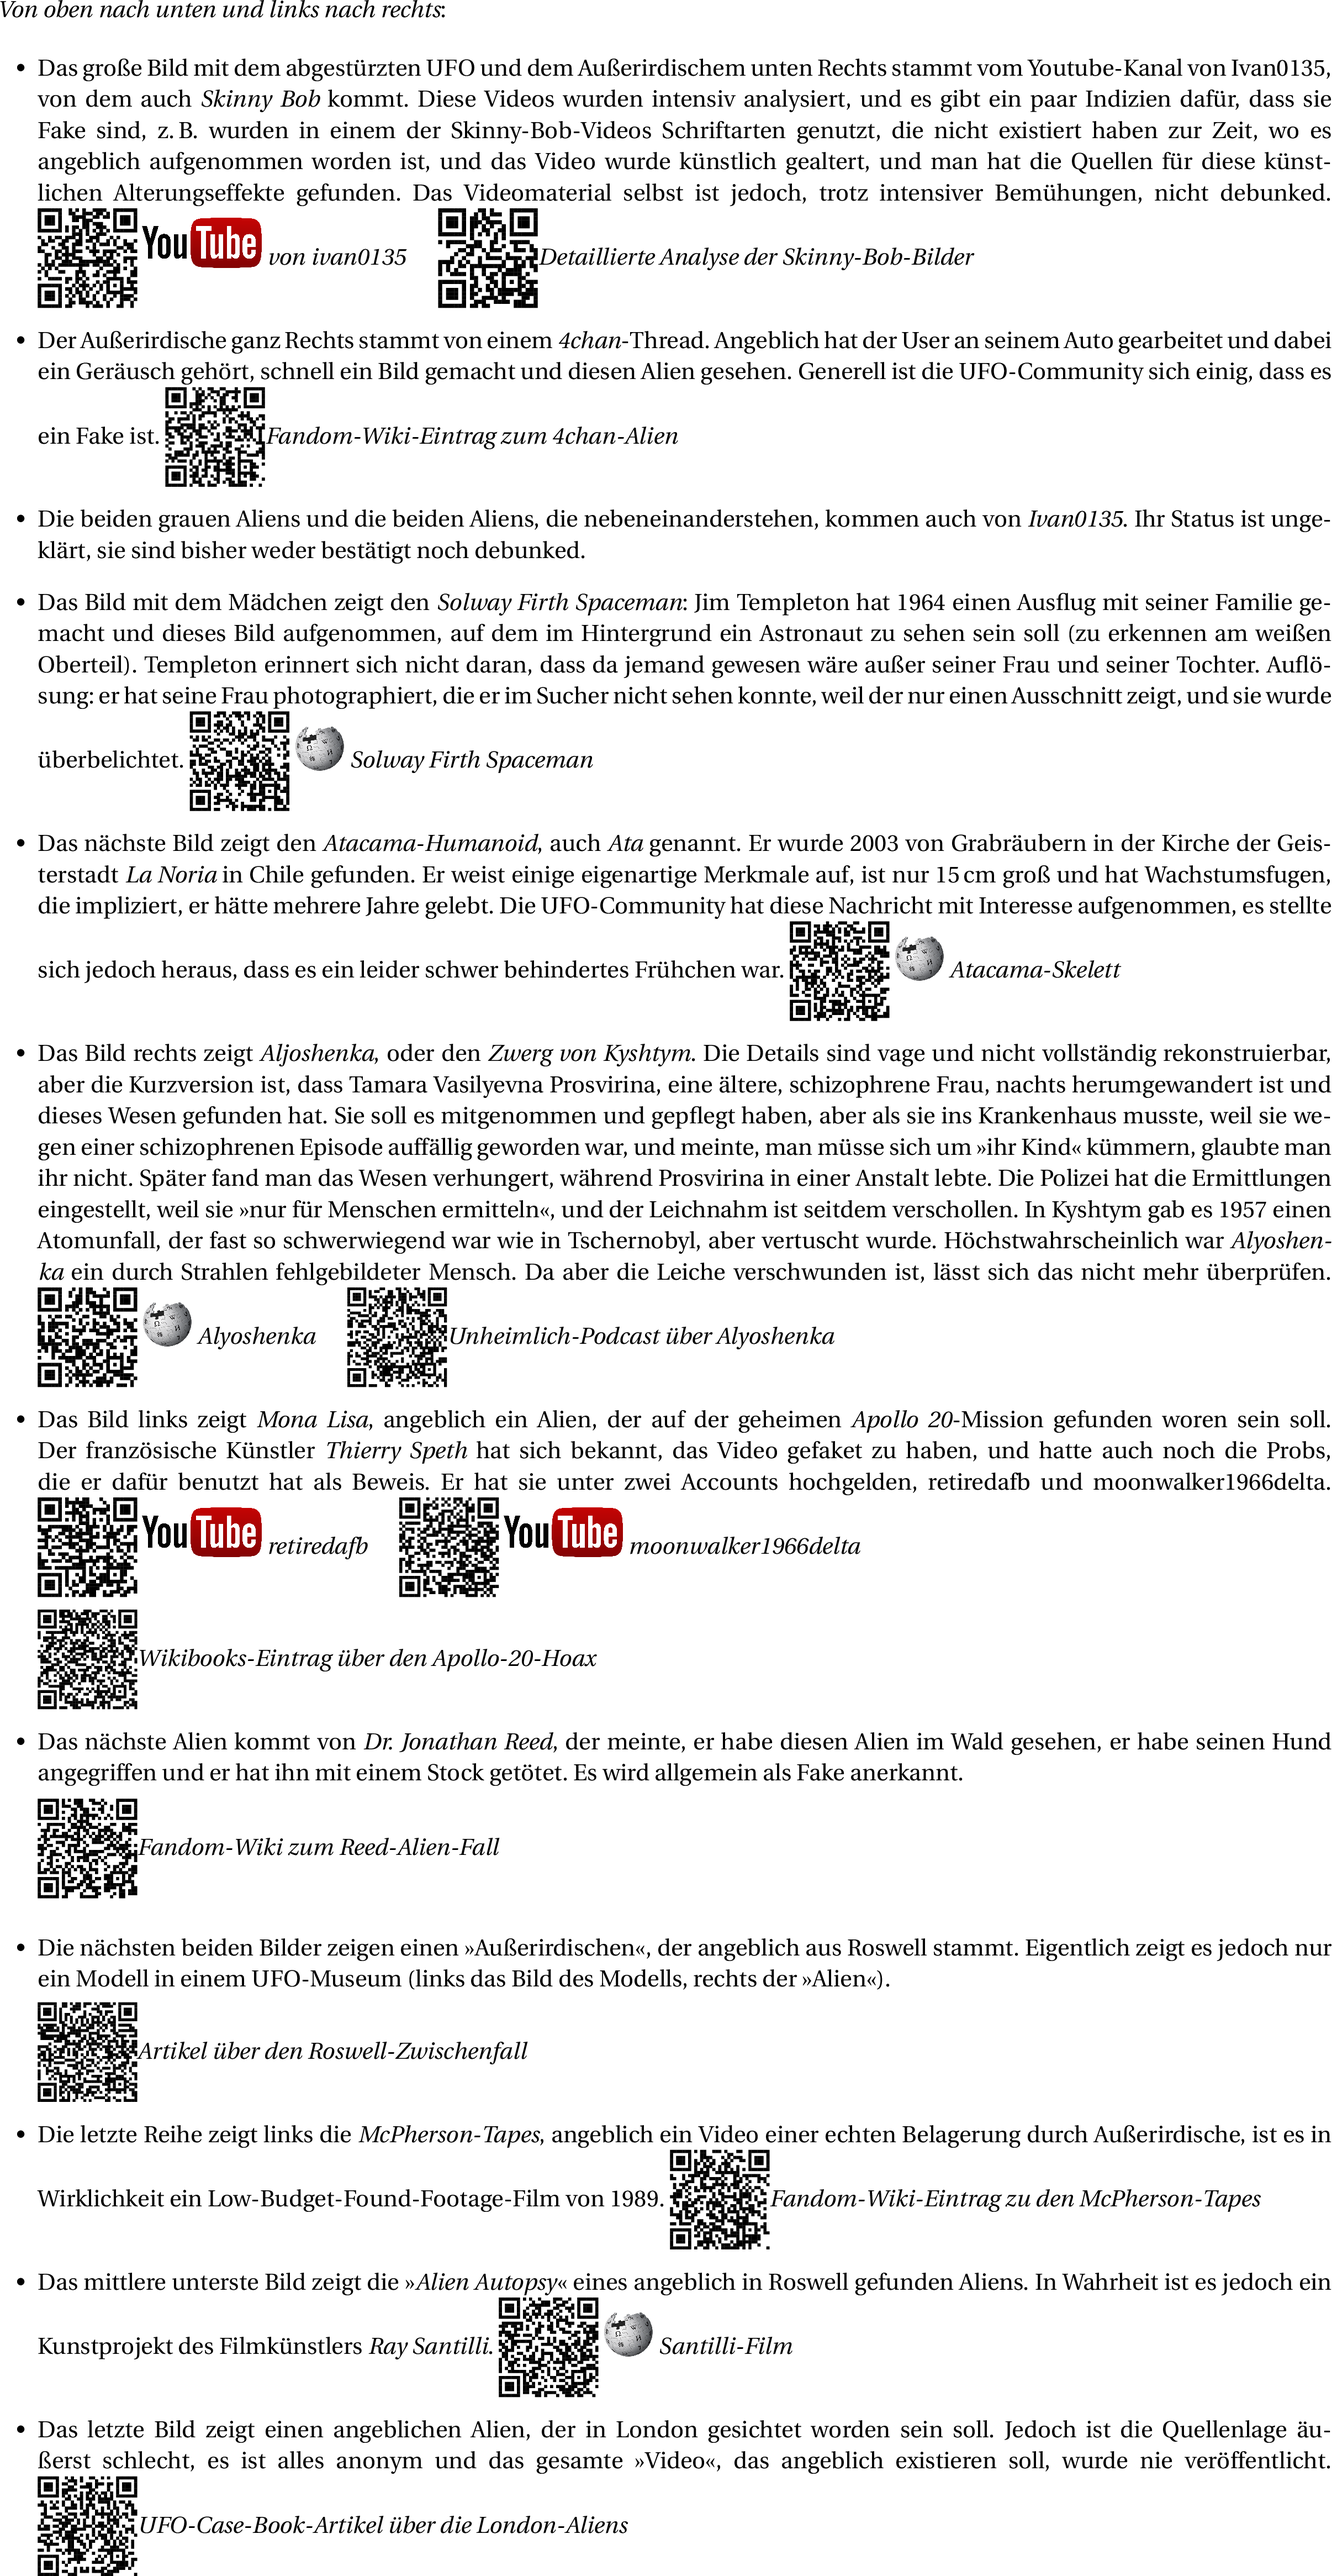
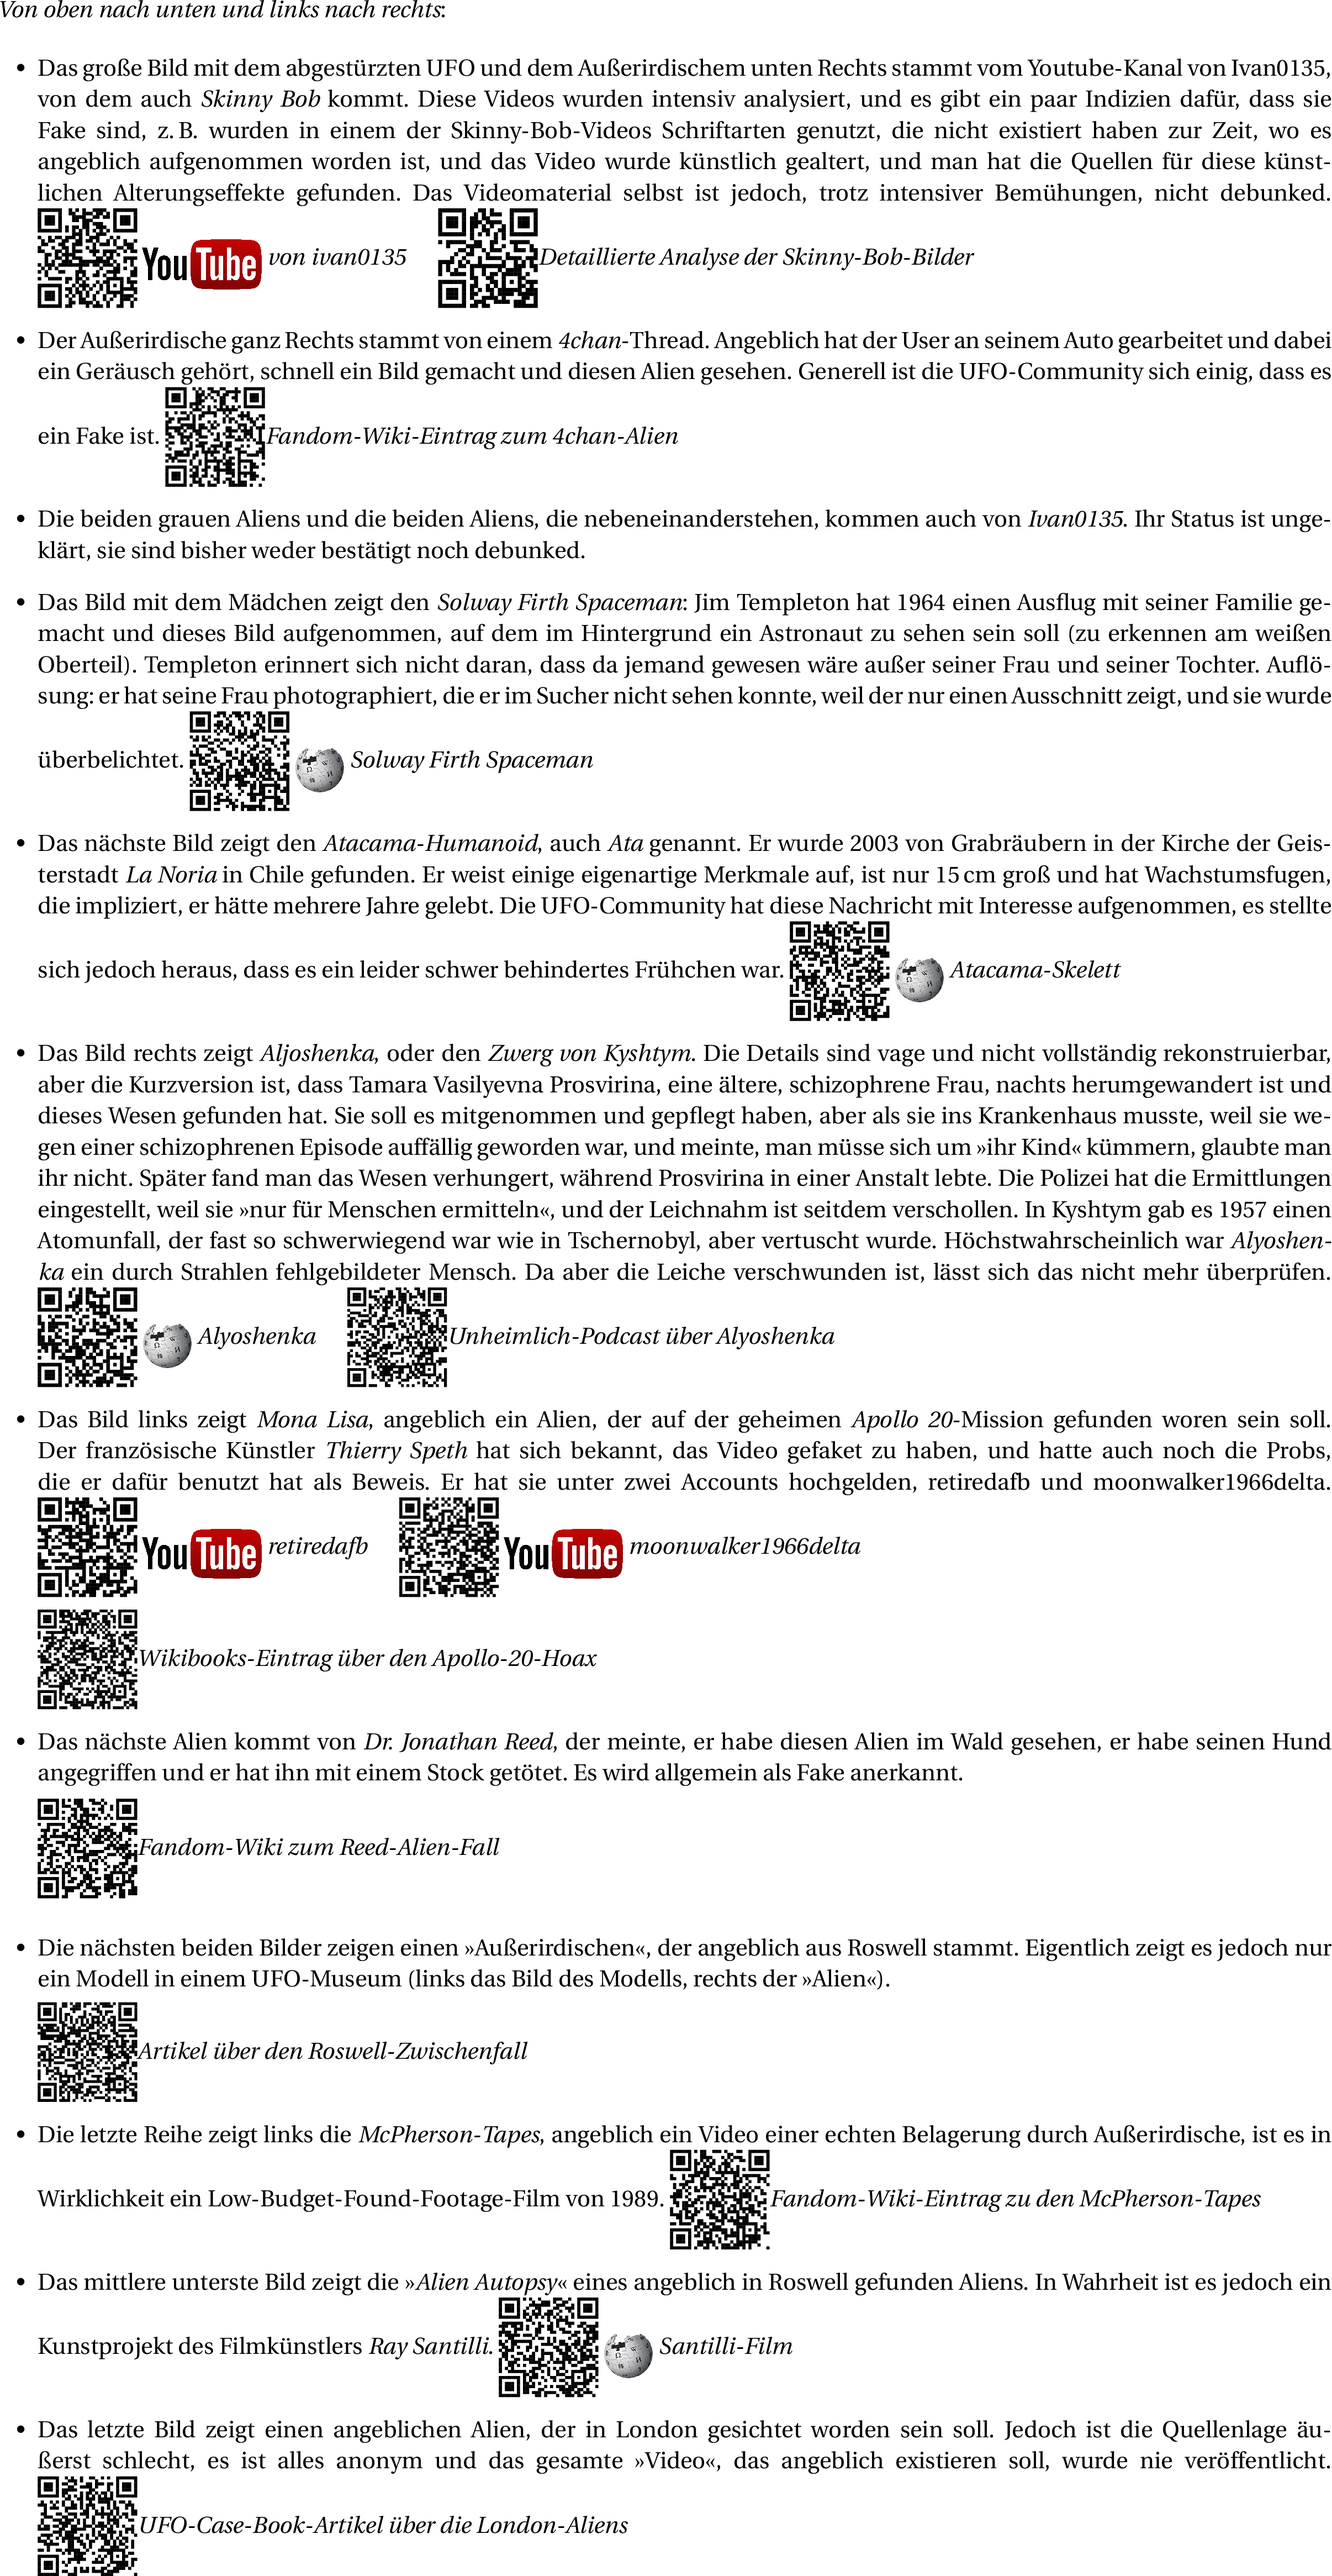
fix

diff --git a/poster/header.tex b/poster/header.tex
@@ -52,7 +52,7 @@
     paperheight=29.7cm % Höhe der Seite (A4)
 }
 
-\newcommand{\wikipedia}{ \raisebox{-0.3ex}{\includegraphics[height=4.5ex]{../wiki.png}}}
-\newcommand{\youtube}{ \raisebox{-0.3ex}{\includegraphics[height=4.5ex]{../youtube.png}}}
-\newcommand{\hoaxilla}{ \raisebox{-0.3ex}{\includegraphics[height=4.5ex]{../hoaxilla.png}}}
-\newcommand{\skeptoid}{ \raisebox{-0.3ex}{\includegraphics[height=4.5ex]{../skeptoid.png}}}
+\newcommand{\wikipedia}{ \raisebox{-2.25ex}{\includegraphics[height=4.5ex]{../wiki.png}}}
+\newcommand{\youtube}{ \raisebox{-2.25ex}{\includegraphics[height=4.5ex]{../youtube.png}}}
+\newcommand{\hoaxilla}{ \raisebox{-2.25ex}{\includegraphics[height=4.5ex]{../hoaxilla.png}}}
+\newcommand{\skeptoid}{ \raisebox{-2.25ex}{\includegraphics[height=4.5ex]{../skeptoid.png}}}
